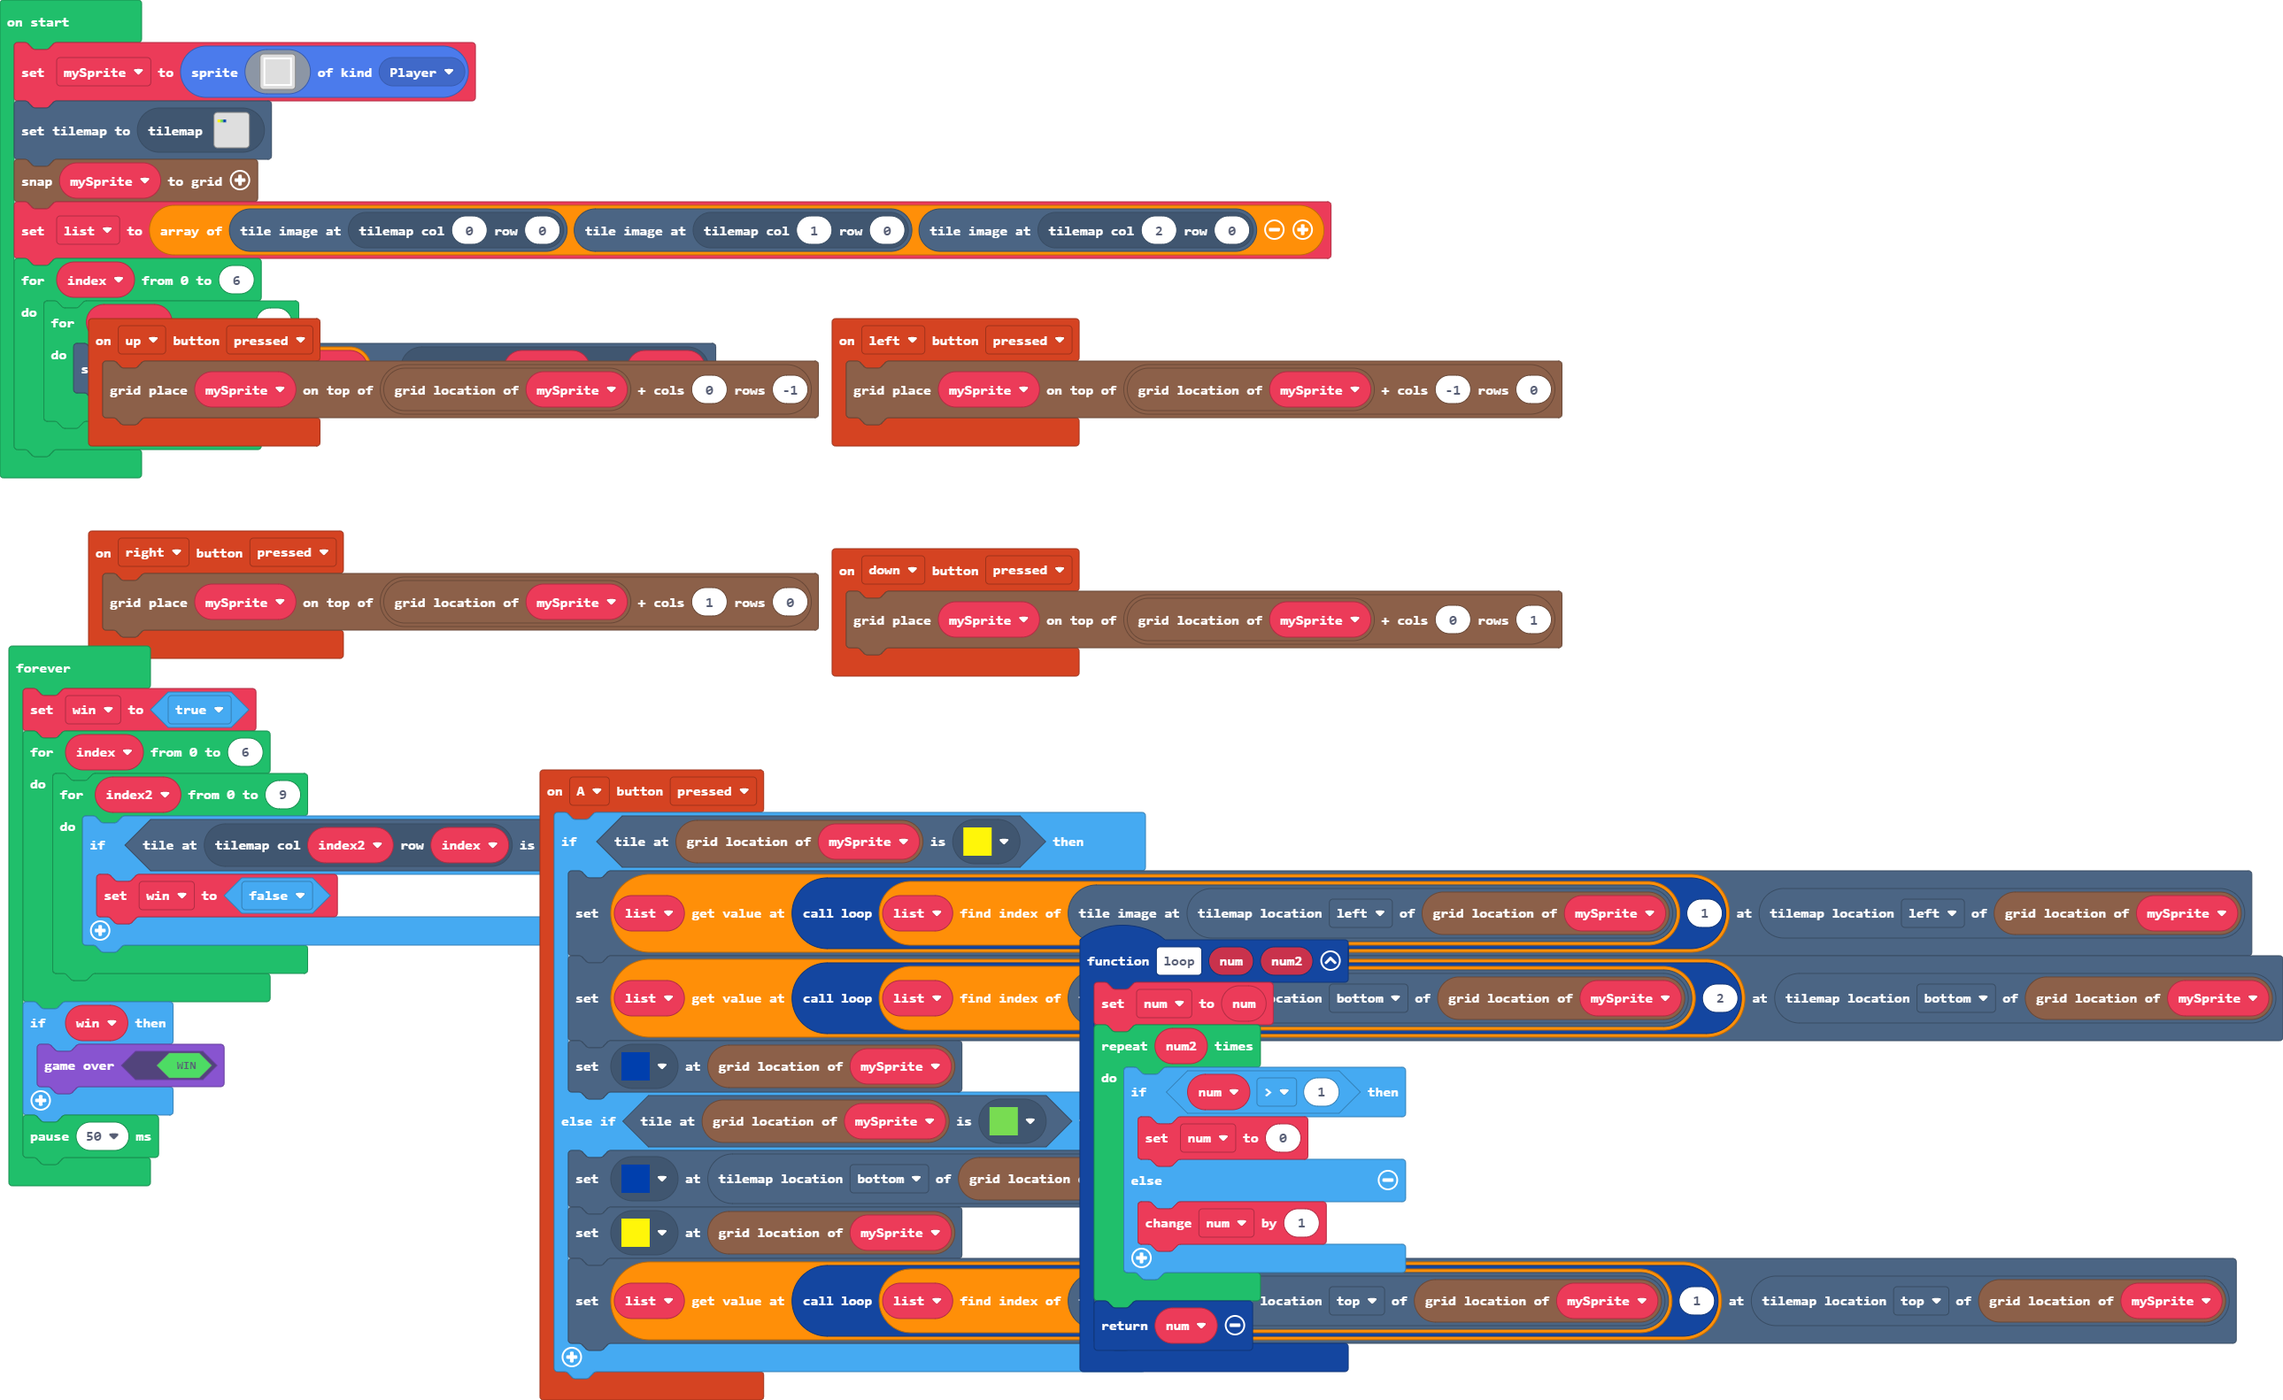
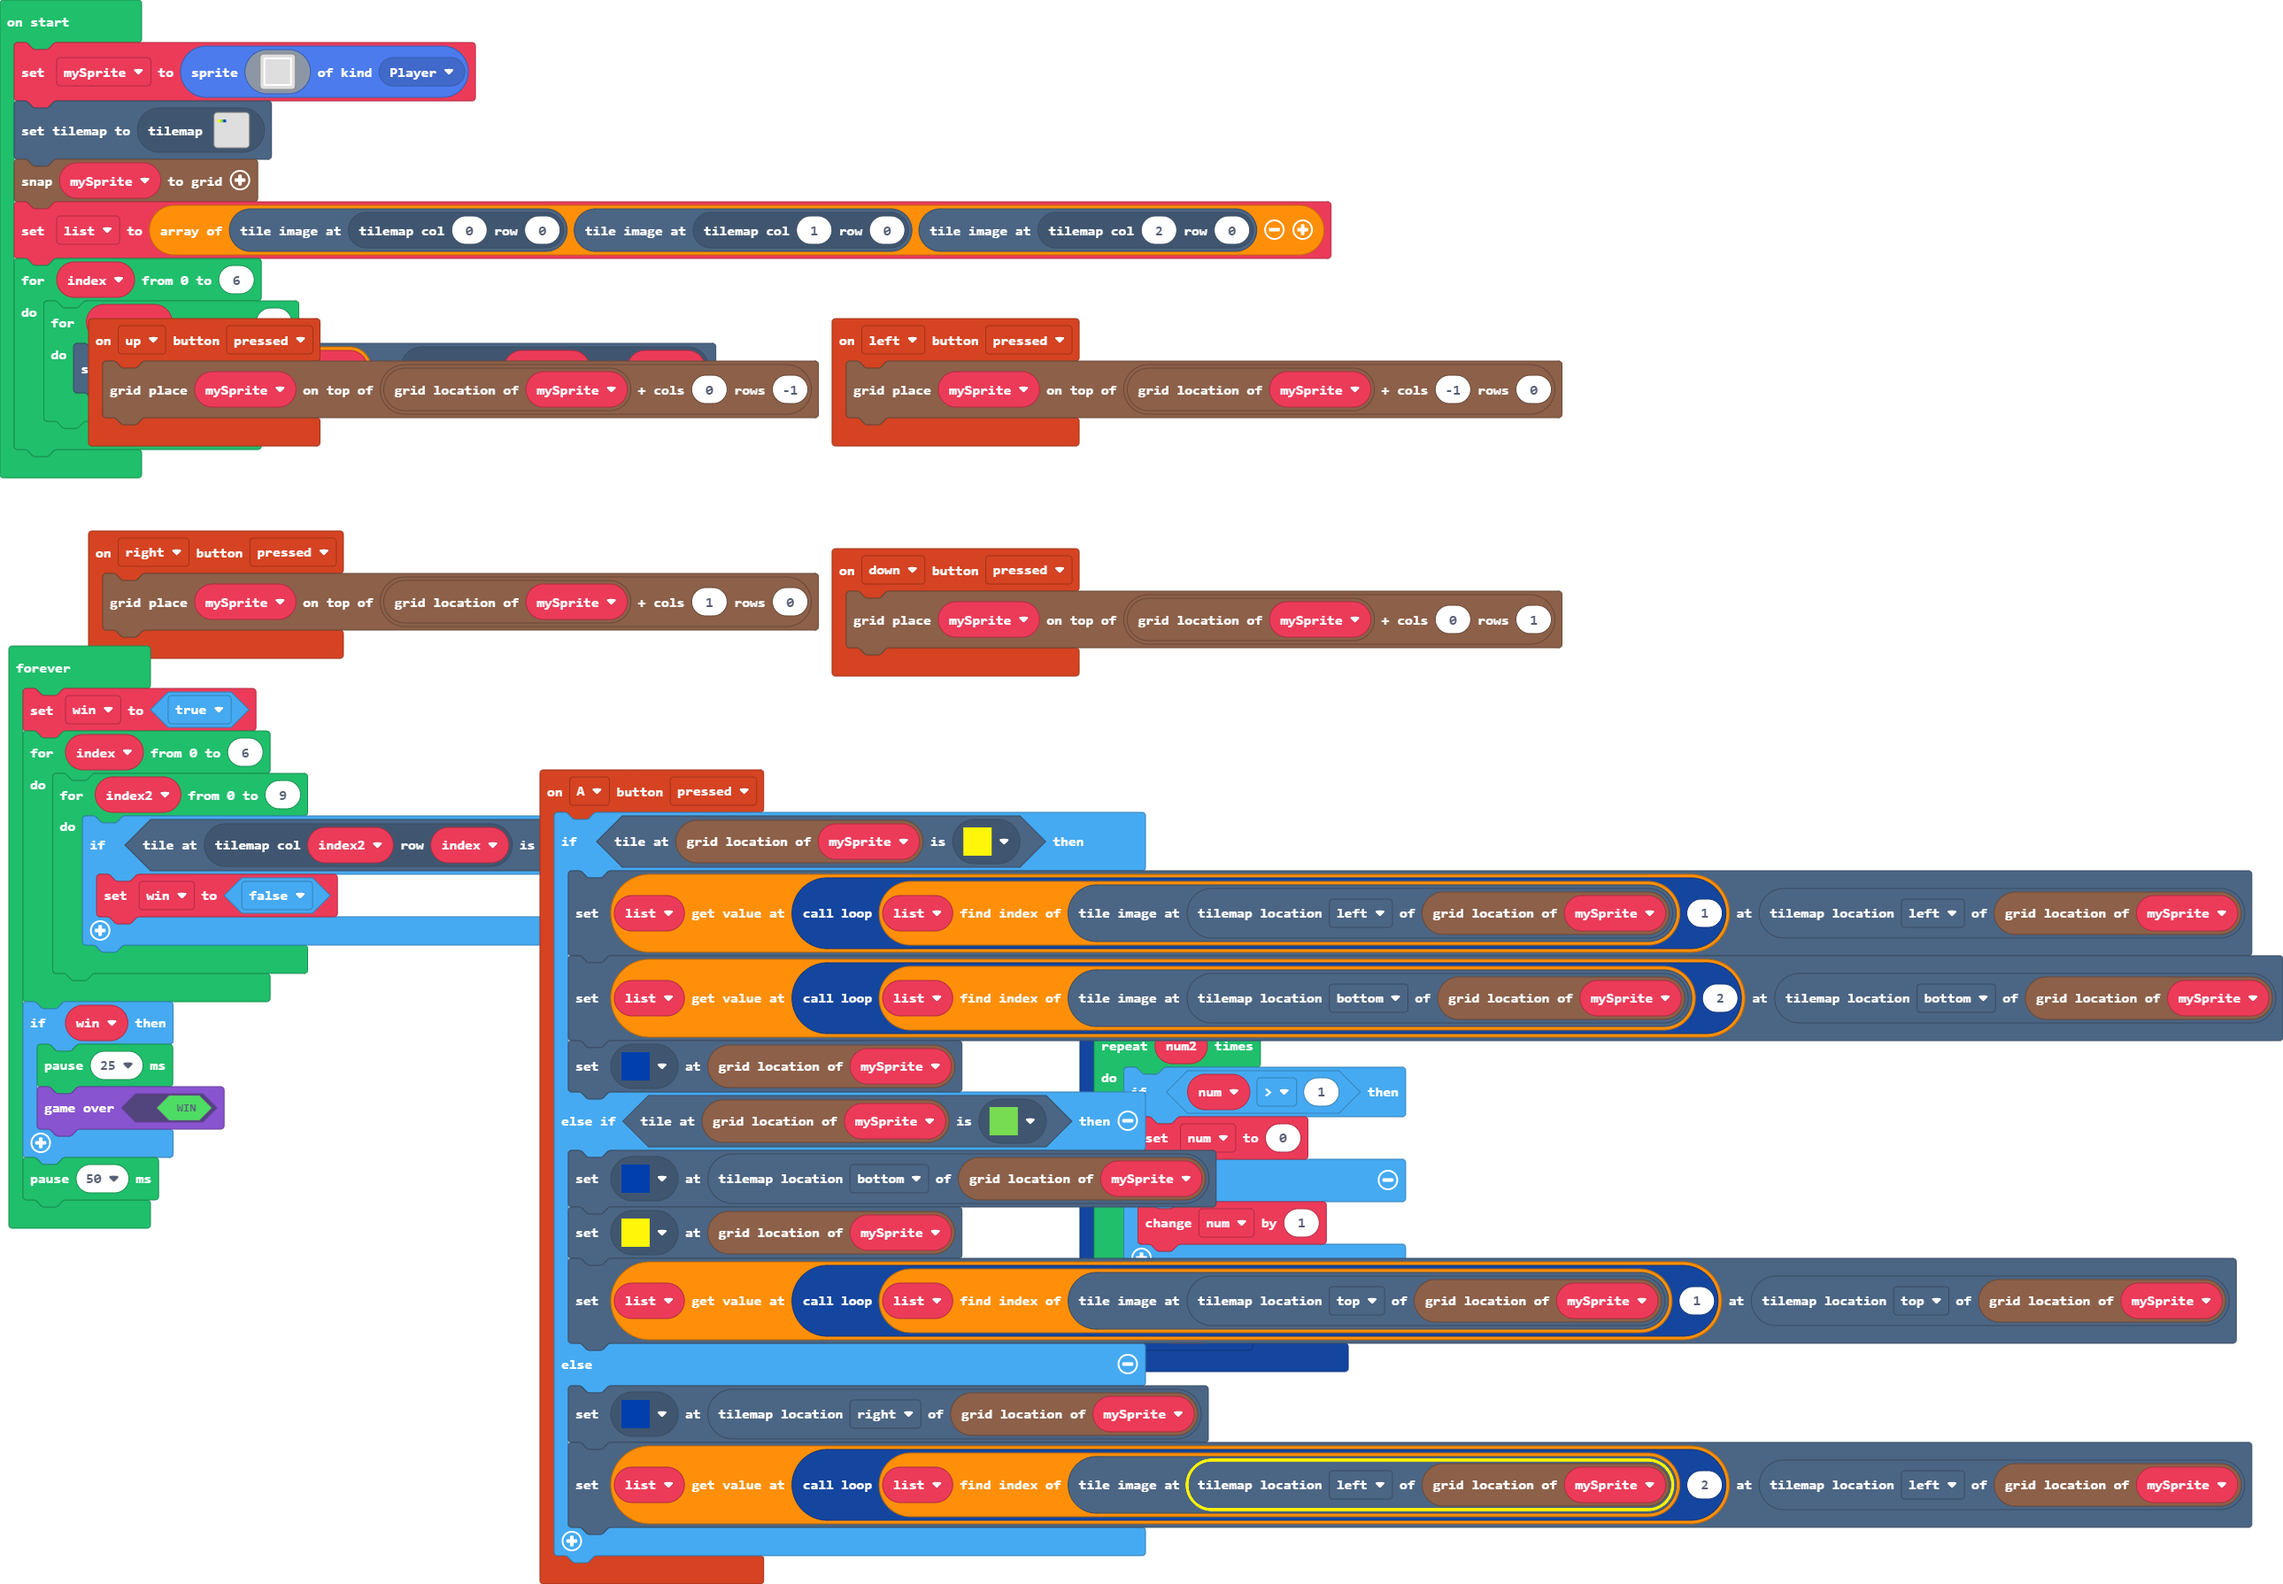
added changes to the blue tile (you can change other tiles next to it)

diff --git a/main.ts b/main.ts
@@ -10,6 +10,9 @@ controller.A.onEvent(ControllerButtonEvent.Pressed, function () {
         tiles.setTileAt(grid.getLocation(mySprite).getNeighboringLocation(CollisionDirection.Bottom), assets.tile`myTile1`)
         tiles.setTileAt(grid.getLocation(mySprite), assets.tile`myTile`)
         tiles.setTileAt(grid.getLocation(mySprite).getNeighboringLocation(CollisionDirection.Top), list[loop(list.indexOf(tiles.tileImageAtLocation(grid.getLocation(mySprite).getNeighboringLocation(CollisionDirection.Top))), 1)])
+    } else {
+        tiles.setTileAt(grid.getLocation(mySprite).getNeighboringLocation(CollisionDirection.Right), assets.tile`myTile1`)
+        tiles.setTileAt(grid.getLocation(mySprite).getNeighboringLocation(CollisionDirection.Left), list[loop(list.indexOf(tiles.tileImageAtLocation(grid.getLocation(mySprite).getNeighboringLocation(CollisionDirection.Left))), 2)])
     }
 })
 controller.left.onEvent(ControllerButtonEvent.Pressed, function () {
@@ -72,6 +75,7 @@ forever(function () {
         }
     }
     if (win) {
+        pause(25)
         game.gameOver(true)
     }
     pause(50)
